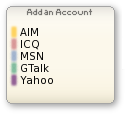
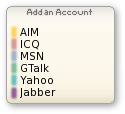
Add Jabber account adding.

Changed region(s): [[0.072, 0.6316, 0.456, 0.8684]]

diff --git a/PSP/Plugins/APP_afkim/gui/menuAddAccount.cc b/PSP/Plugins/APP_afkim/gui/menuAddAccount.cc
@@ -34,8 +34,8 @@ string menuAddAccount::getInputKey() const
 //the value returned here is the value returned to takeInput
 string menuAddAccount::fixSelected()
 {
-	if (selected < 0) selected = 4;
-	if (selected > 4) selected = 0;
+	if (selected < 0) selected = 5;
+	if (selected > 5) selected = 0;
 	return getInputKey();
 }
 
@@ -59,6 +59,9 @@ string menuAddAccount::pressCross()
 		break;
 	case 4:
 		newAC = new accountCreator(BAT_YAHOO, unicodeClean("Enter details for your Yahoo Account"), "menuAddAccount");
+		break;
+	case 5:
+		newAC = new accountCreator(BAT_JABBER, unicodeClean("Enter details for your Jabber Account\nUsername in the form handle@server.tld"), "menuAddAccount");
 		break;
 	}
 	inputs["accountCreator"] = newAC;

diff --git a/PSP/Plugins/APP_afkim/bitlbee.cc b/PSP/Plugins/APP_afkim/bitlbee.cc
@@ -287,6 +287,12 @@ void bitlbeeCallback::addAccount(bitlbeeAccountType acctype, wstring Wusername, 
 			accounts.push_back(bitlbeeAccount("JABBER", unUsername+"@gmail.com"));
 			break;
 		}
+		case BAT_JABBER:
+		{
+			serverMsg("account add jabber " + unUsername + " " + unPassword);
+			accounts.push_back(bitlbeeAccount("JABBER", unUsername));
+			break;
+		}
 		default:
 		{
 			cout << "YOU GAVE A BAD TYPE TO bitlbee::addAccount()!!!" << endl;

diff --git a/PSP/Plugins/APP_afkim/bitlbee.h b/PSP/Plugins/APP_afkim/bitlbee.h
@@ -30,8 +30,8 @@ enum bitlbeeAccountType {
 	BAT_MSN,
 	BAT_GMAIL,
 	BAT_YAHOO,
-	BAT_BITLBEE // <- DO NOT PASS THIS IN TO THE ACCOUNT CREATE FUNCTION
-//	BAT_JAB   -- Adding a jabber account will have its own function
+	BAT_BITLBEE, // <- DO NOT PASS THIS IN TO THE ACCOUNT CREATE FUNCTION
+	BAT_JABBER
 };
 
 enum bitlbeeAccountStatus {
